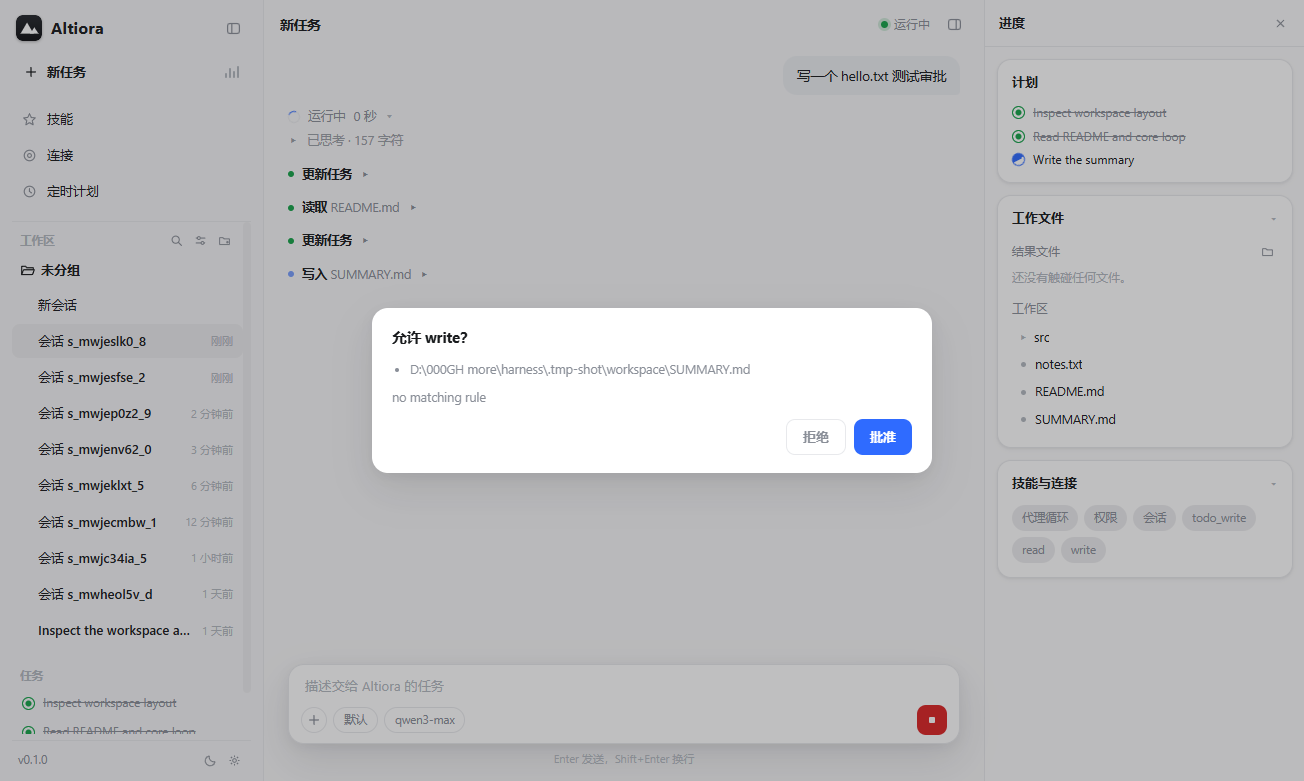
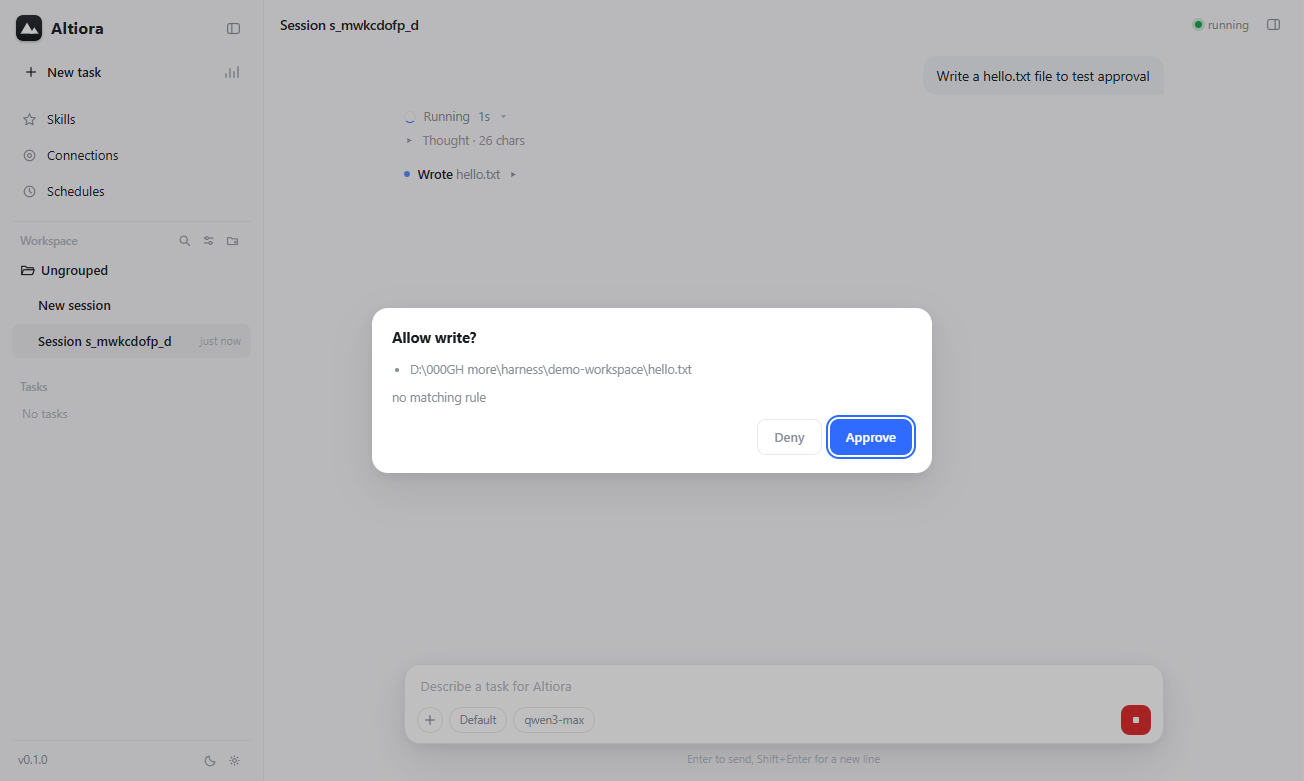
docs: add Chinese README and split screenshots by UI language
- README.md keeps English UI screenshots and links to the Chinese version
- README.zh-CN.md mirrors the English document with Chinese UI screenshots
- localize permission decision reasons in the approval dialog

diff --git a/desktop/renderer/app.js b/desktop/renderer/app.js
@@ -667,6 +667,23 @@ function closeConfirm(approved) {
   void api.respond(req.id, approved);
   addNotice(t(approved ? "notice.allowed" : "notice.denied", { tool: req.tool }), approved ? "" : "error");
 }
+function localizeReason(raw) {
+  if (typeof raw !== "string" || raw === "") return raw;
+  const unattended = "; unattended mode turns ask into deny";
+  let text = raw;
+  let suffix = "";
+  if (text.endsWith(unattended)) { text = text.slice(0, -unattended.length); suffix = "; " + t("reason.unattended"); }
+  let head;
+  if (text === "no matching rule") head = t("reason.noRule");
+  else if (text === "read-only tool") head = t("reason.readOnly");
+  else if (text === "plan mode blocks writes") head = t("reason.planBlocks");
+  else if (text.endsWith(" mode")) head = t("reason.mode", { mode: text.slice(0, -5) });
+  else {
+    const rule = /^(allow|ask|deny) by rule (.+)$/.exec(text);
+    head = rule ? t("reason.byRule", { effect: t(`effect.${rule[1]}`), rule: rule[2] }) : text;
+  }
+  return head + suffix;
+}
 function showConfirm(req) {
   pendingConfirm = req;
   modalTitleEl.textContent = t("allowTool", { tool: req.tool });
@@ -676,7 +693,7 @@ function showConfirm(req) {
     for (const r of req.resources) { const li = document.createElement("li"); li.textContent = r; ul.append(li); }
     modalBodyEl.append(ul);
   }
-  const reason = document.createElement("div"); reason.className = "modal-reason"; reason.textContent = req.reason;
+  const reason = document.createElement("div"); reason.className = "modal-reason"; reason.textContent = localizeReason(req.reason);
   modalBodyEl.append(reason);
   modalEl.hidden = false; approveEl.focus();
 }

diff --git a/desktop/renderer/i18n.js b/desktop/renderer/i18n.js
@@ -58,6 +58,15 @@ export const STRINGS = {
     "approve": "Approve",
     "deny": "Deny",
     "allowTool": "Allow {tool}?",
+    "reason.noRule": "no matching rule",
+    "reason.readOnly": "read-only tool",
+    "reason.planBlocks": "plan mode blocks writes",
+    "reason.unattended": "unattended mode turns ask into deny",
+    "reason.mode": "{mode} mode",
+    "reason.byRule": "{effect} by rule {rule}",
+    "effect.allow": "allowed",
+    "effect.ask": "ask",
+    "effect.deny": "denied",
     "settings.title": "Settings",
     "settings.language": "Language",
     "settings.langZh": "中文",
@@ -186,6 +195,15 @@ export const STRINGS = {
     "approve": "批准",
     "deny": "拒绝",
     "allowTool": "允许 {tool}？",
+    "reason.noRule": "没有匹配的规则",
+    "reason.readOnly": "只读工具",
+    "reason.planBlocks": "计划模式禁止写入",
+    "reason.unattended": "无人值守模式将询问转为拒绝",
+    "reason.mode": "{mode} 模式",
+    "reason.byRule": "由规则 {rule} 判定为{effect}",
+    "effect.allow": "允许",
+    "effect.ask": "询问",
+    "effect.deny": "拒绝",
     "settings.title": "设置",
     "settings.language": "语言",
     "settings.langZh": "中文",

diff --git a/README.zh-CN.md b/README.zh-CN.md
@@ -1,0 +1,219 @@
+# Altiora
+
+[English](README.md) | 简体中文
+
+*ad altiora* —— 向更高处。
+
+一个无头优先的编码 agent 框架，提供命令行工具与 Windows 桌面应用。
+
+Altiora 让模型在真实工作目录中运行：流式推进一轮对话、执行工具、强制权限判定，并把全过程记录进只追加的会话日志，可随时恢复、分叉或回放。
+
+状态：npm 上为 **0.1.0**。仓库已实现 M0–M8，外加定时计划模块与改版后的桌面界面；下一阶段范围是 M9–M13。
+
+## 设计
+
+### 架构
+
+```
+CLI (src/cli)                 桌面端 (desktop/)
+        \                      /
+         runAgent 循环 (src/core)
+          |        |        |
+   providers     tools    permissions
+          \        |        /
+        只追加会话日志 (JSONL)
+```
+
+`runAgent` 接收 provider、工具注册表、权限引擎与日志写入端。它边运行边追加每一轮、每次尝试、每个工具调用、每次权限判定与结果，并发出 `RunEvent` 对象。CLI 渲染器与桌面窗口消费这些事件；核心层不向 stdout 写入任何内容。模型上下文由日志投影而来，因此恢复、分叉与回放读取的是同一份文件。
+
+导入关系强制了边界：`src/core` 不导入 `src/providers` 或 `src/cli`，协议格式只留在 provider 适配器内，桌面壳导入构建后的核心并在 Electron 主进程里运行同一个循环。窗口与循环之间没有 HTTP 监听。
+
+### 原则
+
+- **会话日志是唯一事实源。** 模型上下文由它投影而来，恢复、分叉、回放与崩溃恢复都基于同一份数据。被中断的工具调用在恢复时结算，而不是被静默丢弃。
+- **权限由框架强制，而不是在提示词里请求。** 规则按 `deny -> ask -> allow` 首次匹配生效。无头运行有显式的 `unattended` 策略，其中 `ask` 变为 `deny`。
+- **provider 差异只留在边缘。** 核心层使用语义化消息；OpenAI 兼容协议格式、`reasoning_content` 往返与工具调用分片组装都集中在一个适配器里。
+- **依赖面尽量小。** 只有当运行时依赖能抵得上自身成本时才引入；测试用 `node:test`；CLI 用 `node:util` 解析参数。
+- **Windows 是一等平台。** 命令以参数数组启动，绝不使用 `shell: true`；路径归属用 `path.relative` 比较解析后的路径。
+
+## 状态
+
+已交付：
+
+- CLI 至 M7：带工具活动的流式聊天、权限规则、支持恢复与分叉的 JSONL 会话、AGENTS.md 上下文、压缩、子 agent、网页抓取、`apply_patch`、`/stats` `/compress` `/model`，以及上下文窗口探测。
+- 桌面端至 M8：Electron 壳，含会话侧栏、工作区选择、文件树与只读预览、流式思考过程与审批对话框；可执行文件与安装包都带应用图标。
+- 定时计划：零依赖 cron 解析器、JSON 存储与无头执行器，通过 `altiora schedule` 与桌面侧栏的定时计划管理器暴露。
+- 桌面界面改版：默认简体中文、英文收在设置中，双语首页且输入舱在首次发送后下沉，常驻进度面板（计划、工作文件、技能），带文件夹开合动画的工作区列表，从日志派生的会话标题，以及运行时权限模式切换。
+- `altiora-agent@0.1.0` 已发布到 npm，命令名为 `altiora`。
+
+验证：`npm test` 运行单元测试与针对模拟 OpenAI 兼容服务的端到端测试，`npm run lint`、`npm run typecheck` 与 `npm run build` 作为门禁。桌面包有独立的 agent 服务测试，NSIS 安装包已在 Windows 上完成静默安装与卸载验证。CI 在 ubuntu、macOS 与 Windows 上跨 Node 22 与 24 运行两个包，包含桌面构建、类型检查与测试。
+
+已知限制：
+
+- 安装包未签名，首次运行会触发 SmartScreen 提示。
+- MCP 服务、技能、hooks 与检查点尚未实现，属于 M9–M11。
+- 仅实现 OpenAI 兼容 provider，原生 Anthropic 与 Gemini 适配器尚未提供。
+- 桌面应用目前面向 Windows，没有浏览器界面。
+- 桌面界面已本地化（中文与英文）；按约定 CLI 输出保持英文。
+- 定时任务无人值守运行，因此没有匹配 `--allow` 规则的写入会被直接拒绝，而不是排队等待批准。
+
+## 环境要求
+
+Node.js 22.18 或更新版本。开发时由 Node 的类型剥离直接运行 TypeScript，试用 CLI 无需构建步骤。
+
+## 用法
+
+```sh
+export ALTIORA_API_KEY=...
+altiora run "summarize this repository" --model deepseek-chat --base-url https://api.deepseek.com/v1
+```
+
+写文件与执行命令需要显式规则：
+
+```sh
+altiora run "fix the failing test" --model deepseek-chat \
+  --allow read --allow glob --allow grep \
+  --allow "edit(src/**)" --allow "bash(node --test *)"
+```
+
+规则使用 `tool(pattern)` 语法，按 deny、ask、allow 的顺序判定。只读工具默认允许；`--permission-mode unattended` 把所有未匹配的 `ask` 变为 `deny`，`--permission-mode plan` 阻止一切写入。路径会被解析，越出工作区即拒绝。
+
+`task` 以全新上下文运行子 agent，其工具集不含 `task` 本身，因此子 agent 不能嵌套。`webfetch` 只接受公网 http(s) URL：回环、私有、链路本地与元数据地址一律拒绝，重定向会重新校验，响应上限 5 MB。
+
+`altiora init` 为新项目写入 `.altiora/config.json` 与 `AGENTS.md` 骨架。
+
+交互式会话运行 `altiora chat --model deepseek-chat`。它跨轮保持同一会话、流式输出回答、打印工具活动，并在规则判定为 `ask` 时询问 y/N；`/new` 开启新会话，`/stats` 打印 token 与工具计数，`/compress` 按需压缩会话，`/model` 切换模型并重新探测限制，`/exit` 退出。一轮进行中按 Ctrl+C 只中止该轮，不结束会话。
+
+`contextWindow` 默认为 `"auto"`：启动时向 provider 的 `/models` 列表询问该模型的窗口与输出上限一次，列表无答案时回退到 128k，若配置或 `--context-window` 已给出数值则完全跳过该请求。压缩在解析后窗口的 85% 处触发。
+
+`apply_patch` 把 Codex 风格的 `*** Begin Patch` 更新作为一次编辑跨多个文件应用：每个新增、更新、移动与删除都先在内存中校验，任一 hunk 失败则所有文件保持原样。`edit` 仍是单次唯一替换的工具。
+
+配置优先级为：CLI 参数 > `ALTIORA_*` 环境变量 > `.altiora/config.json` 中的项目配置（仅在受信任时）> `altiora config path` 打印的用户配置。
+
+会话是用户数据目录下的只追加 JSONL 文件。每一轮、每次尝试、每个工具调用、每次权限判定与工具结果都会被记录；模型上下文由该日志投影，因此被中断的工具调用会在恢复时结算。
+
+```sh
+altiora sessions list
+altiora sessions show <id>
+altiora run "keep going" --resume <id>
+altiora run "try another approach" --fork <id>
+```
+
+面向脚本时，`--output-format json` 打印单个结果对象，`--output-format stream-json` 打印 NDJSON 事件（`system`、`assistant`、`user`、`result`），并带稳定的 `session_id`。
+
+定时任务存放在用户数据目录的 `schedules.json`，以无人值守策略无头运行（仅执行允许清单内的写入）：
+
+```sh
+altiora schedule add nightly "0 3 * * *" "summarize the repo" --allow "write(docs/**)"
+altiora schedule list
+altiora schedule run-now <id>
+altiora schedule watch
+```
+
+桌面应用在后台运行同一个调度器，并在侧栏提供定时计划管理器。
+
+## 桌面应用
+
+`desktop/` 是同一核心之上的 Electron 壳。agent 循环运行在主进程，通过 IPC 向渲染层流式推送 `RunEvent`；审批经模态框往返，preload 桥只暴露窗口实际使用的通道。没有 HTTP 监听。
+
+窗口打开在双语首页：居中的欢迎语与下方输入舱，首轮开始后输入舱下沉到底部。每一轮渲染为时间线，带实时计时、可折叠的思考过程、每个工具调用一行，回答以 Markdown 呈现。
+
+- **侧栏**：新任务、技能与连接入口、定时计划管理器，以及分组行在闭合与展开文件夹之间动画切换的工作区列表。会话标题取自日志中的首条用户消息；搜索可过滤，排序控件在最近与名称之间切换。
+- **进度面板**：常驻列，含计划、工作文件与技能三张卡片。结果文件仅在写入成功后收集，历史回放会重建计划、文件列表与已用工具标签。
+- **输入舱**：权限模式标签在运行时循环 `default / plan / unattended`，模型标签显示当前模型及其上下文窗口。
+- **设置**：语言（中文或英文）与主题（浅色或深色），均在本地持久化。
+
+调度器随应用启动、退出时停止，因此窗口打开期间定时任务会照常触发。
+
+| 场景 | 命令 |
+|---|---|
+| 运行源码 CLI | `node src/cli/main.ts run "..."` |
+| 运行构建后 CLI | `altiora run "..."` |
+| 启动桌面应用 | `cd desktop && npm install && npm run start` |
+| 构建安装包 | `cd desktop && npm run package` |
+
+`npm run package` 会重新构建核心、把其 `dist` 拷入应用，并在 `desktop/release/` 生成 NSIS 安装包与免安装版本。安装包按用户安装、允许选择目录，且未签名，首次运行会触发 Windows SmartScreen 提示。安装器美术资源来自 `desktop/scripts/make-icons.py`，需要 Pillow，会重新生成 `desktop/build/` 下的 ICO、头图与侧图。标识是炭黑圆角方块配白色双峰图形，同一图形也出现在侧栏与首页。
+
+### 界面截图
+
+以下为中文界面；英文界面截图见 [English README](README.md#screenshots)。
+
+![首页：居中欢迎语与输入舱](docs/screenshots/zh/home.png)
+
+首页：欢迎语居中，输入舱在其下方，再往下是建议标签。首轮开始后输入舱下沉到底部。
+
+![完成的一轮：时间线、回答与常驻进度面板](docs/screenshots/zh/app.png)
+
+完成的一轮：带思考过程与本地化工具行的时间线、Markdown 回答，以及展示计划、结果文件与工作区树的进度面板。
+
+![写入工具调用前的审批对话框](docs/screenshots/zh/approval.png)
+
+写文件的工具调用会等待显式批准，对话框列出确切路径与判定原因。
+
+![从工作区树打开的只读预览](docs/screenshots/zh/preview.png)
+
+工作区树以只读预览方式打开文件。
+
+## 项目指令与上下文
+
+`AGENTS.md` 从仓库根目录逐级加载到工作目录，另加配置目录中的全局文件。仅含 `@path` 的行会导入另一个文件，最多四层且只允许在仓库内部；合并后的文本上限为 48k 字符。
+
+每一步之前，框架会估算请求大小、用 provider 报告的输入 token 校准估算值；一旦上下文超过可用窗口的 85%，就把较早部分按固定模板摘要、逐字保留最近的尾部，并把这次压缩记入会话日志。摘要在回放中保留，因此 `sessions show` 与恢复看到的上下文与模型当时看到的一致。
+
+## 开发
+
+```sh
+npm install
+node src/cli/main.ts --help
+node src/cli/main.ts config path
+npm test
+npm run typecheck
+npm run build
+cd desktop && npm run typecheck && npm test
+```
+
+## 目录结构
+
+```
+src/cli         命令入口与输出渲染器
+src/core        agent 循环、上下文组装、压缩、运行事件
+src/providers   模型适配器（先做 OpenAI 兼容）
+src/tools       工具定义与执行
+src/permissions 权限规则与工作区归属
+src/session     只追加 JSONL 日志、投影、恢复
+src/schedule    cron 解析、计划存储、无头调度器
+src/config      schema、路径解析、AGENTS.md 发现
+desktop/src     Electron 主进程、agent 服务、preload 桥
+desktop/renderer  窗口结构、样式、渲染脚本与语言包
+desktop/scripts   核心拷贝与图标生成
+```
+
+## 路线图
+
+详细计划、验收标准与推迟项见 [docs/PLAN.md](docs/PLAN.md)。
+
+| 里程碑 | 目标版本 | 范围 |
+|---|---|---|
+| M9 | CLI 0.2.0 | MCP stdio 客户端：零依赖 JSON-RPC、按换行分帧，仅工具能力，配置受信任门禁，名称暴露为 `mcp_<server>_<tool>` |
+| M10a | CLI 0.3.0 | `altiora doctor` 与技能 |
+| M10b | CLI 0.3.0 | harness 规格与库、hooks、输入指纹 |
+| M11 | CLI 0.4.0 | 基于工具声明资源的检查点与 `/rewind` |
+| M12 | CLI 0.5.0 | 原生 Anthropic 适配器、能力矩阵、`altiora models`、会话中切换模型 |
+| M13 | desktop 0.3.0 | 会话重命名/置顶/删除、工作区历史、可编辑的技能与连接面板、用量视图 |
+
+顺序是刻意的：MCP 带来最大的外部工具池，M10 把 harness 自身变成可比对的版本化数据，M11 为文件写入补上安全网。指针式压缩推迟到基于摘要的压缩出现实测上下文丢失之后再做。
+
+已提前于路线图交付：侧栏会话搜索与排序、只读的技能与连接面板，以及定时计划模块。
+
+### 明确的非目标
+
+- 浏览器界面或本地 HTTP 服务；桌面应用通过 Electron IPC 与循环通信。
+- 插件图架构；MCP、技能与 hooks 计划以更少的机制覆盖同样的需求。
+- 操作系统沙箱、LSP 服务、agent 团队与计算机操作。
+- 在 OpenAI 兼容适配器够用之前，不做原生 Anthropic 与 Gemini 协议格式。
+
+## 许可
+
+Apache-2.0
+
+发布流程见 [RELEASING.md](RELEASING.md)。

diff --git a/README.md b/README.md
@@ -1,5 +1,7 @@
 # Altiora
 
+English | [简体中文](README.zh-CN.md)
+
 *ad altiora* - toward higher things.
 
 A headless-first coding agent harness with a CLI and a Windows desktop app.
